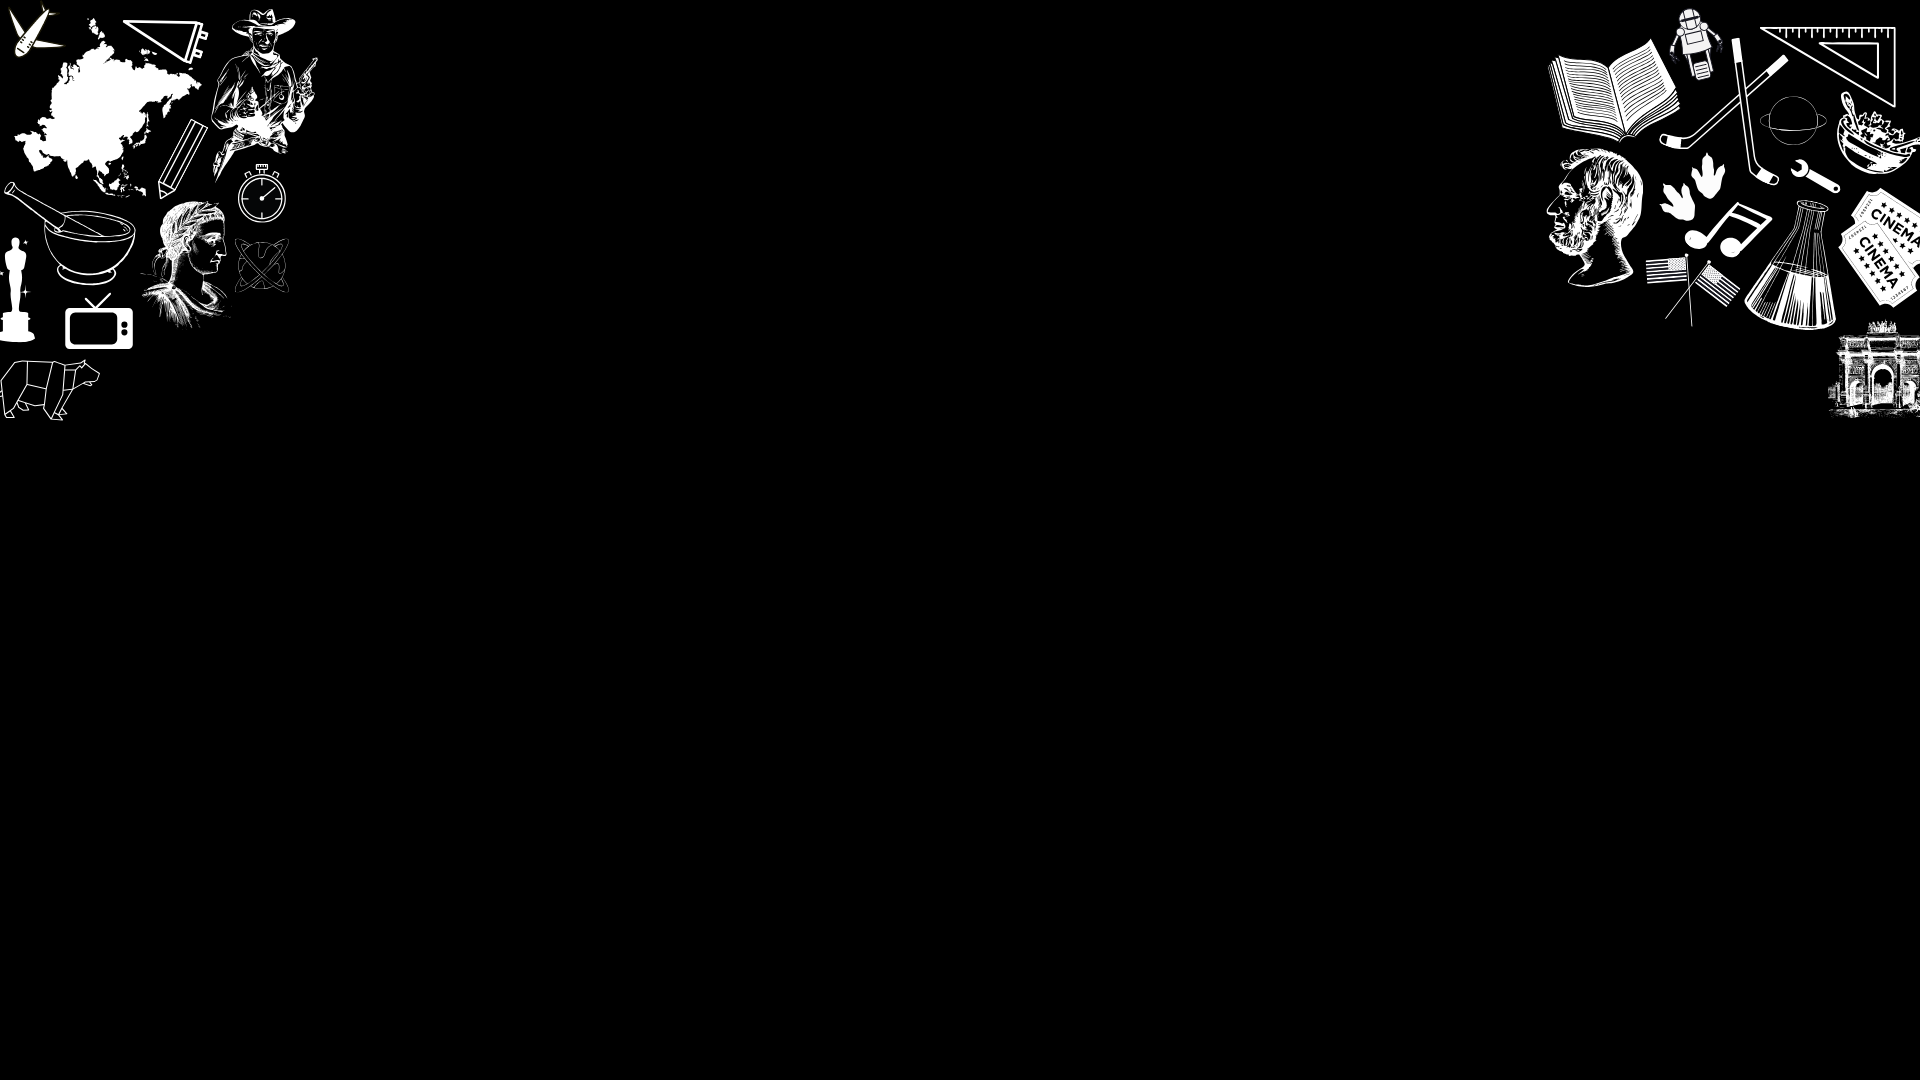
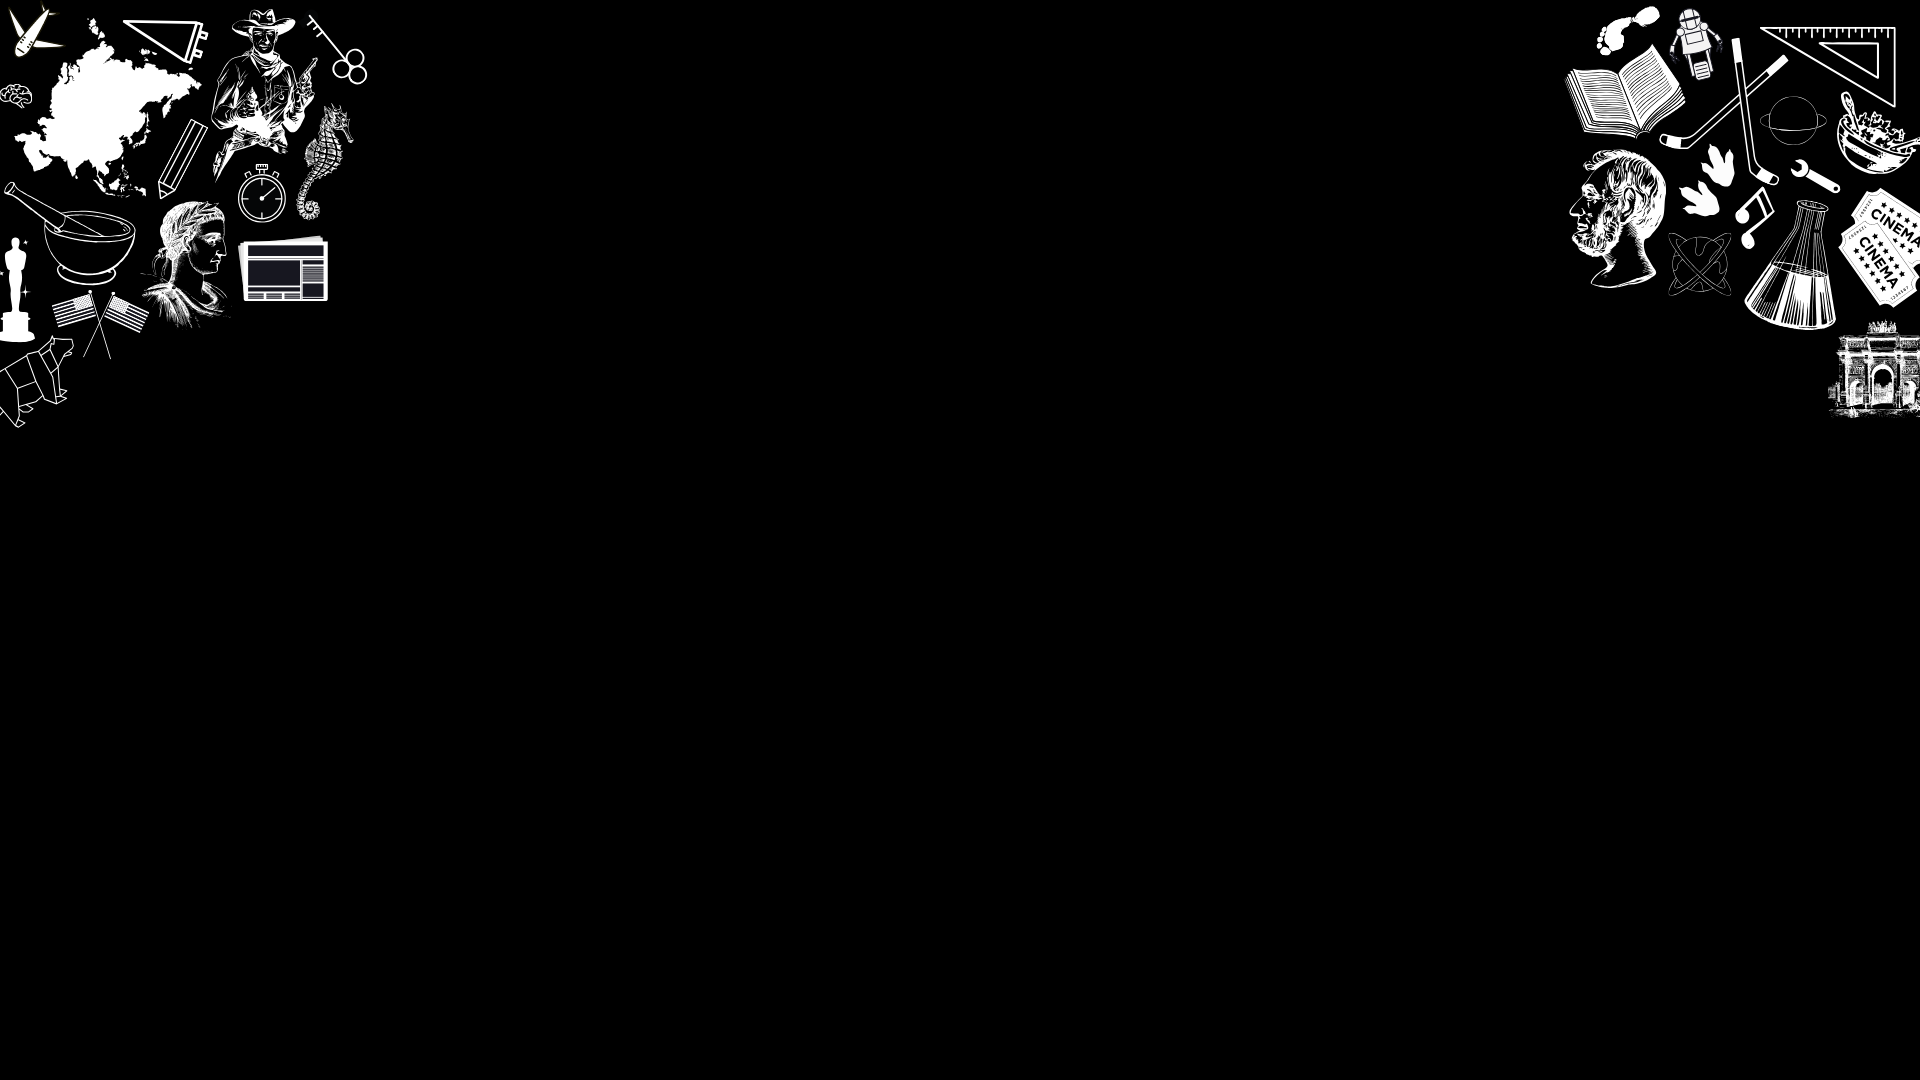
new background image and readme

diff --git a/src/components/DataPage/DataPage.css b/src/components/DataPage/DataPage.css
@@ -2,7 +2,9 @@
   display: flex;
   flex-direction: column;
   color:white;
+  /*width: 800px;*/ /* this is used only for teh chrome extension
 }
+
 
 .come-back {
   text-align: center;

diff --git a/README.md b/README.md
@@ -1,68 +1,7 @@
-This project was bootstrapped with [Create React App](https://github.com/facebook/create-react-app).
+Description: This app allows you to play a Column of jeoparday with a differnet column everyday.  The application has been made into a chrome extension, availble at ...(Not on chrome store yet).
 
-## Available Scripts
+Simply download the chome extension from the store to use in your browser.
 
-In the project directory, you can run:
+This app was created using create-react-app and local storage to hold the data.  The charts were made with C3 and react-c3js. Quesitions and answers come from the jService API.
 
-### `npm start`
-
-Runs the app in the development mode.<br />
-Open [http://localhost:3000](http://localhost:3000) to view it in the browser.
-
-The page will reload if you make edits.<br />
-You will also see any lint errors in the console.
-
-### `npm test`
-
-Launches the test runner in the interactive watch mode.<br />
-See the section about [running tests](https://facebook.github.io/create-react-app/docs/running-tests) for more information.
-
-### `npm run build`
-
-Builds the app for production to the `build` folder.<br />
-It correctly bundles React in production mode and optimizes the build for the best performance.
-
-The build is minified and the filenames include the hashes.<br />
-Your app is ready to be deployed!
-
-See the section about [deployment](https://facebook.github.io/create-react-app/docs/deployment) for more information.
-
-### `npm run eject`
-
-**Note: this is a one-way operation. Once you `eject`, you can’t go back!**
-
-If you aren’t satisfied with the build tool and configuration choices, you can `eject` at any time. This command will remove the single build dependency from your project.
-
-Instead, it will copy all the configuration files and the transitive dependencies (webpack, Babel, ESLint, etc) right into your project so you have full control over them. All of the commands except `eject` will still work, but they will point to the copied scripts so you can tweak them. At this point you’re on your own.
-
-You don’t have to ever use `eject`. The curated feature set is suitable for small and middle deployments, and you shouldn’t feel obligated to use this feature. However we understand that this tool wouldn’t be useful if you couldn’t customize it when you are ready for it.
-
-## Learn More
-
-You can learn more in the [Create React App documentation](https://facebook.github.io/create-react-app/docs/getting-started).
-
-To learn React, check out the [React documentation](https://reactjs.org/).
-
-### Code Splitting
-
-This section has moved here: https://facebook.github.io/create-react-app/docs/code-splitting
-
-### Analyzing the Bundle Size
-
-This section has moved here: https://facebook.github.io/create-react-app/docs/analyzing-the-bundle-size
-
-### Making a Progressive Web App
-
-This section has moved here: https://facebook.github.io/create-react-app/docs/making-a-progressive-web-app
-
-### Advanced Configuration
-
-This section has moved here: https://facebook.github.io/create-react-app/docs/advanced-configuration
-
-### Deployment
-
-This section has moved here: https://facebook.github.io/create-react-app/docs/deployment
-
-### `npm run build` fails to minify
-
-This section has moved here: https://facebook.github.io/create-react-app/docs/troubleshooting#npm-run-build-fails-to-minify
+To Demo the app, clone the repo and run npm start from the root directory. You can then play your first day of Jeoparday! (Getting the chrome extension will be easier once it is up)
